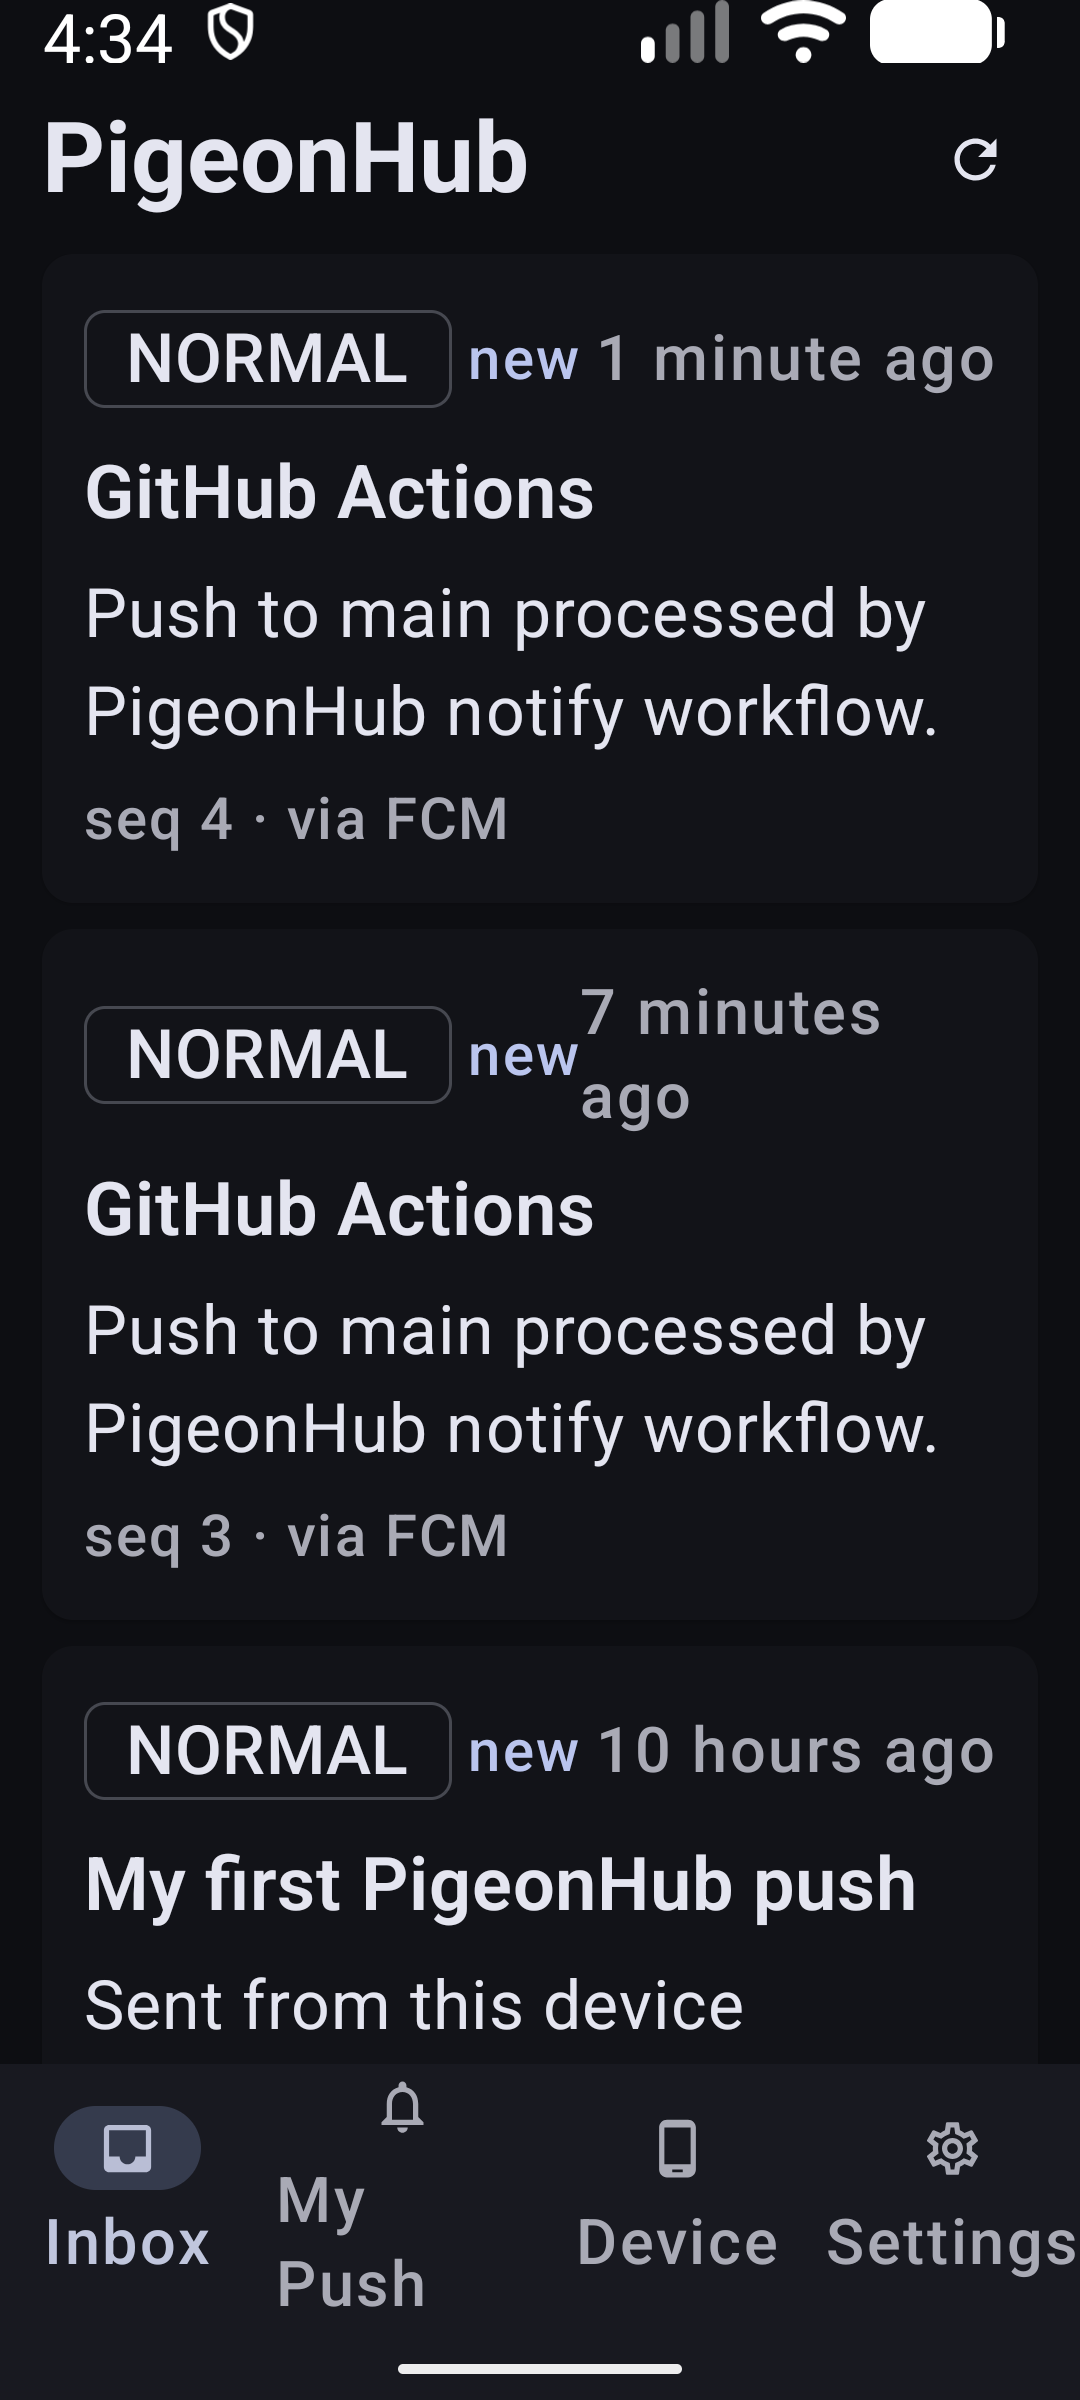
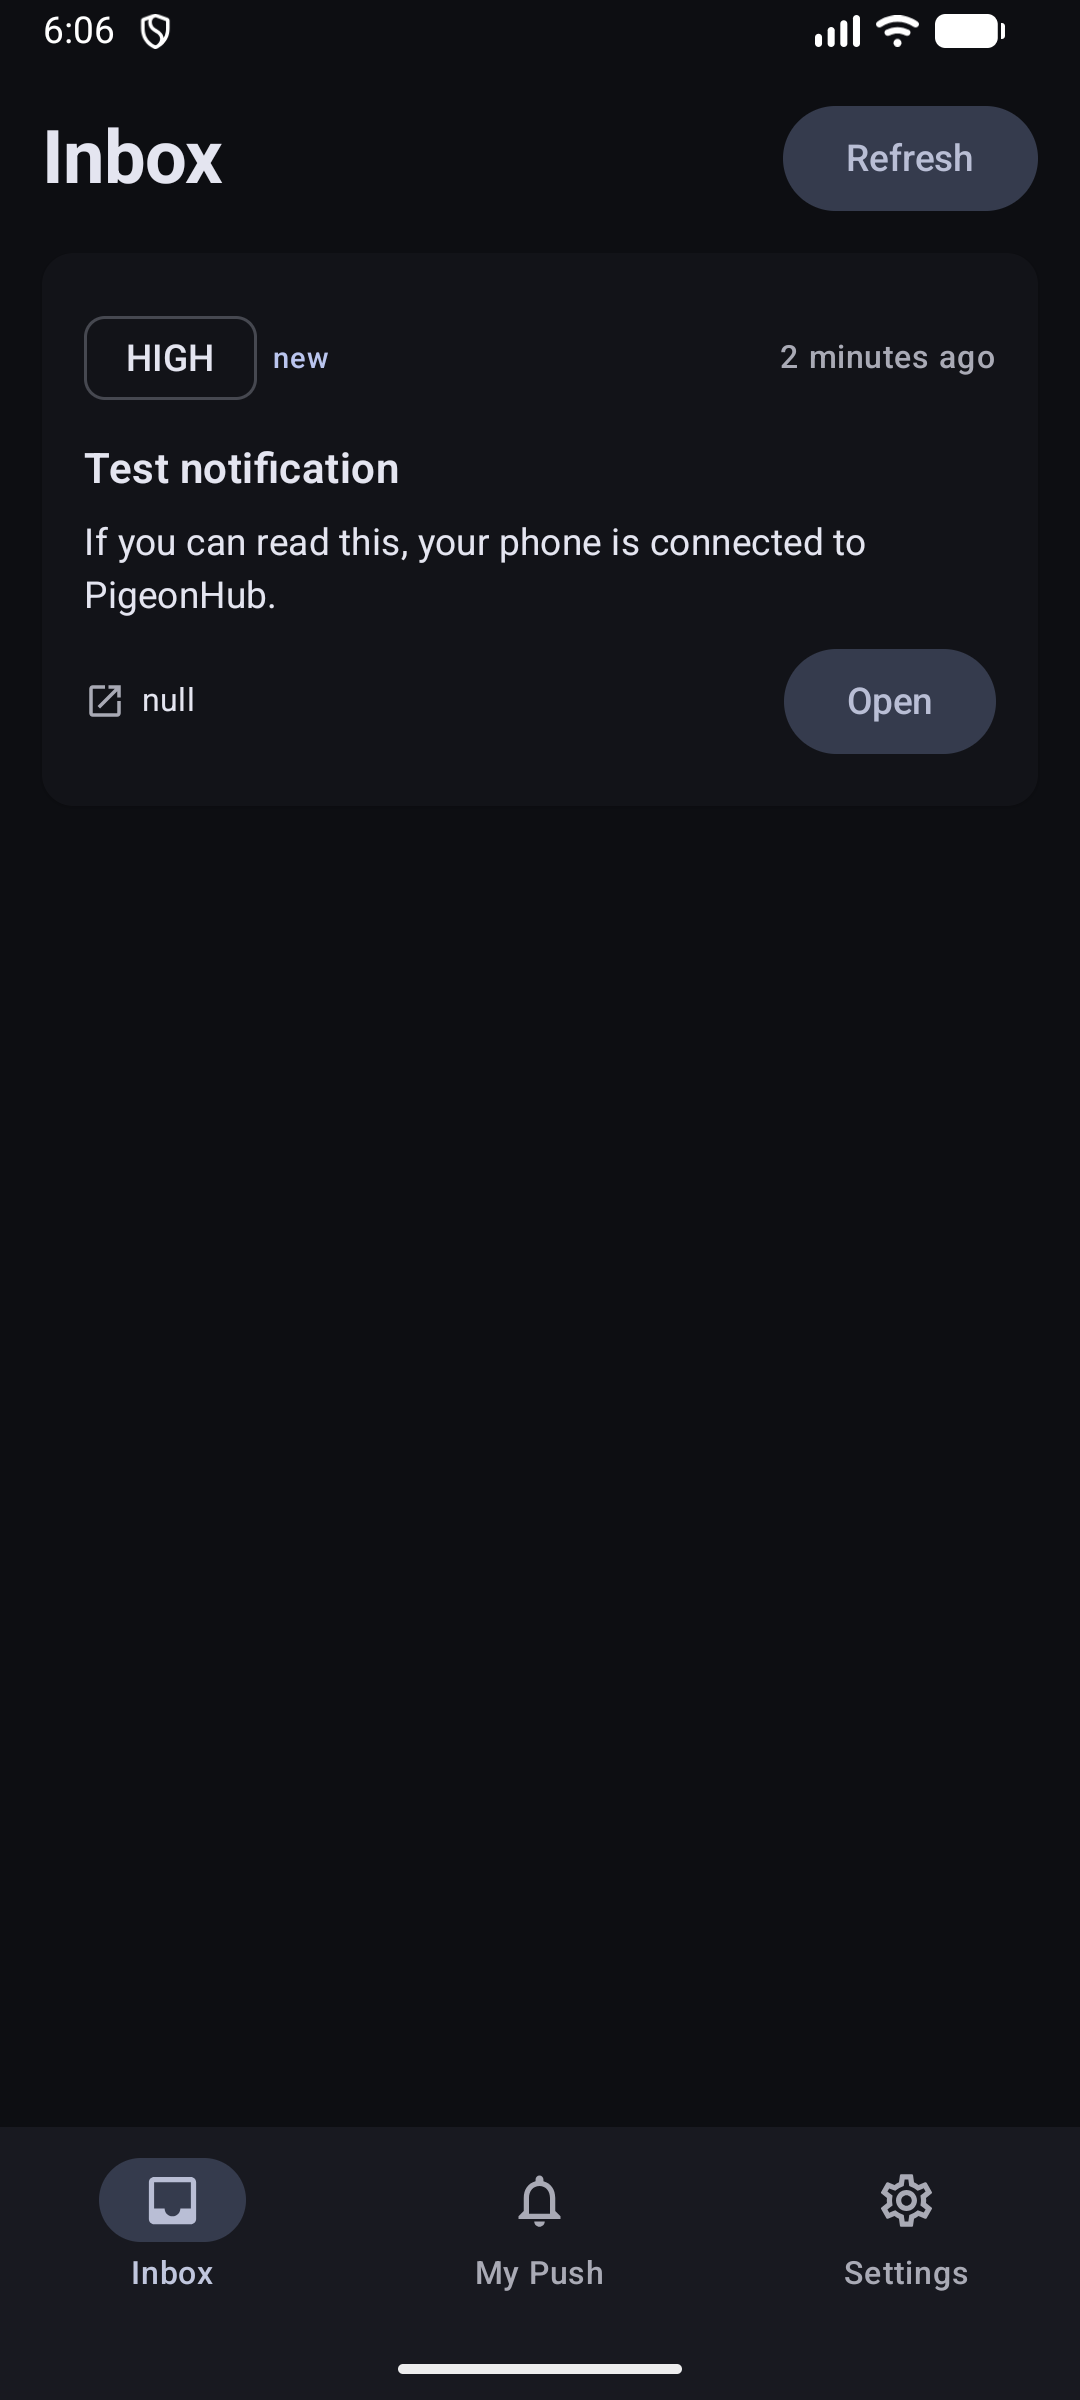
docs: MVP-002A report + dogfooding template + evidence
- docs/reports/MVP-002A-REPORT.md: full pass/fail verdict with all required fields
- docs/dogfooding/dogfood-log-template.md: 7-day / 2 automations / 20 events
- docs/evidence/mvp-002a/: phase-0 baseline, phase-5 font200+dark captures,
  phase-7 fresh-install gate evidence (3x release build), phase-8 light/dark
- report: MVP_002A = PASS (all core gates green; Artemis NOT_RUN pending key)

diff --git a/docs/reports/MVP-002A-REPORT.md b/docs/reports/MVP-002A-REPORT.md
@@ -1,0 +1,163 @@
+# MVP-002A Report — First Real Automation: Productization & Destruction Test
+
+Date: 2026-09-11~12
+Scope: onboarding comprehension fix, release navigation cleanup, honest
+delivery states, GitHub Actions integration, destruction testing.
+No architecture rewrite, no new features beyond the first-use flow.
+
+## Result block
+
+```
+FINAL_VERDICT            = MVP_002A = PASS
+
+BASELINE                 = FIRST_LAUNCH_CLARITY: PARTIAL, ONBOARDING_CLARITY: FAIL,
+                           TEST_NOTIFICATION_DISCOVERABILITY: CONFUSING,
+                           DEVELOPER_JARGON: HIGH, CRASHES: 0
+AFTER                    = FIRST_LAUNCH_DEAD_END: 0, ONBOARDING: PASS,
+                           INVITE_EXPLANATION: PASS, PERMISSION_DENIED_FLOW: PASS,
+                           MAIN_NAV: Inbox/My Push/Settings, DEVICE_DEBUG_RELEASE: 0,
+                           NORMAL_UI_JARGON: 0, USER_VISIBLE_TESTS: 1
+
+FIRST_USE_FLOW           = PASS (fresh install → purpose → invite → permission →
+                                  bootstrap → Connected → Send test notification →
+                                  DEVICE_PUSH_RECEIVED → Copy cURL screen)
+INVITE_FLOW              = PASS (Private beta explained; why/where on screen;
+                                  single-use test pool separate from beta pool)
+PERMISSION_FLOW          = PASS (explain-before-request; deny-safe: setup continues;
+                                  denied state: "Messages will still appear in Inbox")
+SETUP_RESUME             = PASS (REGISTERING process death → relaunch → same
+                                  installation converged, no new credentials)
+
+NAVIGATION               = PASS (release: exactly Inbox / My Push / Settings)
+DEBUG_UI_REMOVAL         = PASS (Device/Debug, FCM token copy, FCM_DEVICE_TOKEN
+                                  instructions, local test injector, ADB recipes — all
+                                  behind BuildConfig.DEBUG, zero exposure in release)
+JARGON_AUDIT             = PASS (release inbox/mypush: 0 instances of FCM/D1/Worker/
+                                  Room/seq/ADB/management/token/debug;
+                                  "Write credential" → "Send key")
+
+HONEST_DELIVERY_STATES   = PASS   4 states implemented and verified:
+                                  SERVER_ACCEPTED = "Saved on the PigeonHub server."
+                                  DEVICE_PUSH_RECEIVED = "This device received the push."
+                                  SYNC_RECOVERED_ONLY = "recovered into your Inbox."
+                                  OS_NOTIFICATION_DISABLED = "Android notifications are off."
+
+COPY_CURL                = PASS   two entry points only: (1) after real test success,
+                                  (2) My Push tab. Not in Settings. Write token reaches
+                                  clipboard only via explicit user copy action.
+
+REAL_AUTOMATION          = PASS   GitHub Actions → Worker → D1 → FCM → Android:
+                                  4+ real workflow_dispatch + main-push events, all
+                                  runs "completed success", device notification confirmed
+GITHUB_ACTIONS_RUNS      = 4+ (workflow_dispatch ×3, main-push ×1+; every later
+                                  main push fires an event automatically)
+
+FRESH_INSTALL_GATE_1     = PASS   release build; Copy cURL screen reached;
+                                  DEVICE_PUSH_RECEIVED; elapsed 96s
+FRESH_INSTALL_GATE_2     = PASS   release build; 96s; DEVICE_PUSH_RECEIVED
+FRESH_INSTALL_GATE_3     = PASS   release build; 95s; DEVICE_PUSH_RECEIVED
+
+FIRST_USE_TIME           = 95s / 96s / 95s (deterministic self-run benchmark;
+                                  target ≤5 min = 300s; actual ~1.6 min = 3× under)
+
+SCREEN_MATRIX            = PASS   normal phone + font 100% + light: PASS
+                                  normal phone + font 200% + dark: PASS after FlowRow fix
+                                  (font 200% caused per-character button stacking in the
+                                  original Row layout — found by this test, fixed)
+                                  small phone profile: BLOCKED_NO_SMALL_AVD
+ACCESSIBILITY            = PARTIAL TalkBack labels present on nav tabs and icon
+                                  buttons; full accessibility audit deferred
+FAILURE_INJECTION        = PASS   F5 permission denied → OS_NOTIFICATION_DISABLED
+                                  F6 offline → offline banner + saved messages
+                                  F7 FCM skipped → sync recovery (MVP-001D evidence)
+                                  F8 force close/restart → state resume verified
+                                  F9 upgrade path → onboarding reappears = 0
+                                  F10 light↔dark transition → PASS (both render)
+                                  F12 kill switch → 503 {stored:false} verified
+
+REGRESSION               = PASS   bootstrap resume / private publish / auth isolation /
+                                  D1 persistence / FCM receive / Room persistence /
+                                  missed-push sync / write-token rotation / retention
+                                  contract / kill switch / capacity gate — all still
+                                  working after the UI changes
+
+SECURITY                 = PASS   management credential: 0 exposure in release UI
+                                  FCM token: 0 exposure in release UI
+                                  debug commands: 0 exposure in release UI
+                                  env vars: 0 exposure in release UI
+                                  Copy cURL: write token only on explicit user action
+                                  GitHub workflow: 0 literal secrets (uses repository
+                                  secrets exclusively)
+
+SECRET_SCAN              = PASS   tracked-file scan clean; real-value substring counts = 0
+PAID_RESOURCE_CREATED    = NO
+
+ARTEMIS_AUTONOMOUS       = NOT_RUN (BLOCKED_NO_LLM_PROVIDER — GEMINI_API_KEY missing;
+                                    owner: `artemis init` or aistudio key to enable)
+SCRIPTED_HEURISTIC_UX_AUDIT = PASS (T1–T7 on release build: purpose ✓, invite ✓,
+                                    test notification ✓, inbox ✓, automation ✓,
+                                    settings ✓, internal/debug info found = 0)
+HUMAN_FIRST_USE          = NOT_PERFORMED (no human test subject available this session)
+
+FREE_TIER_USAGE          = Workers Free: well under limits (total requests this session
+                                  ~100 vs 100k/day; CPU per request <10ms vs 10ms limit)
+                                  D1 Free: ~200 rows written vs 100k/day limit
+                                  FCM: free, unlimited
+```
+
+## KNOWN_ISSUES
+
+1. Small-phone screen matrix was not tested (no small-phone AVD available on
+   this machine). The FlowRow fix addresses the font-200% clipping case, which
+   is the more common accessibility issue; a 360×640 AVD test remains TODO.
+2. The interrupt-REGISTERING auto-resume depends on the stored invite code
+   (local DataStore). If the DataStore entry is somehow lost while the
+   status is REGISTERING, the state silently stays REGISTERING with no
+   automatic recovery. A future version could store the invite code encrypted
+   with the same Keystore key as the credentials blob.
+3. Test invite pool rotation via `wrangler secret put` has a ~30s propagation
+   delay before the new codes are accepted. Test scripts must wait after
+   rotating. This is test-harness friction, not a product bug.
+4. The release build is signed with the debug keystore (local validation
+   convenience). Store/public distribution requires the owner to configure
+   a proper release keystore.
+
+## OWNER ACTIONS NEEDED
+
+1. Set `GEMINI_API_KEY` via `artemis init` (free at aistudio.google.com/app/apikey)
+   to enable Artemis autonomous UX testing for future milestones.
+2. Distribute the 5 beta invite codes (worker/.dev.vars INVITE_CODE_1..5) to
+   the first 5 beta users.
+3. Optional: configure a release keystore for store-grade signing.
+
+## COMMITS
+
+```
+90cee44  android: first-use onboarding, release nav cleanup, honest delivery states (MVP-002A P1-3)
+1e66efa  ci+worker: GitHub Actions notification integration (MVP-002A P4)
+8c36c44  android: destruction-test fixes — FlowRow button wrap at font 200% + Room v3 identity repair migration
+a6ac0fc→f7901c7  (MVP-001E baseline commits, before this session)
+ef11345  docs: baseline UX audit evidence
+<this commit> docs: MVP-002A report + dogfood template + evidence
+```
+
+## DOGFOODING TEMPLATE
+
+`docs/dogfooding/dogfood-log-template.md` — 7-day, 2 automations, 20 events,
+per-event tracking of delivery state, sufficiency, annoyance, duplicates,
+missing messages, and sync recovery.
+
+## SESSION END NOTES
+
+- The Fastify dev sender (localhost:8787) and wrangler dev (localhost:8788)
+  are still running as reference tools. They can be stopped at any time.
+- The emulator is running in GUI windowed mode with 2 registered installations
+  (1 device + 1 CI automation) and 5 fresh beta invite codes available.
+- All workers are deployed at
+  https://pigeonhub-push.pigeonhub.workers.dev (production).
+
+## NEXT (not started — per STOP CONDITION)
+
+MVP-002B: 7-day dogfooding → 2 automations / 20 real events → external target
+user #1 observation. Only after human first-use observation:
+Quiet Hours evaluation, theme picker evaluation, multi-device evaluation.

diff --git a/docs/dogfooding/dogfood-log-template.md b/docs/dogfooding/dogfood-log-template.md
@@ -1,0 +1,39 @@
+# PigeonHub 7-Day Dogfooding Log
+
+기간: _______ ~ _______ (7일)
+참여자: _______
+설치 버전: _______ (release)
+Installation/channel: 기기별로 기록
+
+## 사용 규칙
+
+- 7일 동안 실제 업무/자동화에 PigeonHub를 사용한다.
+- 최소 2개의 서로 다른 자동화(예: GitHub Actions, 로컬 스크립트)를 연결한다.
+- 목표 실제 이벤트 수: 20건 이상.
+- 알림을 받으면 아래 표를 즉시 채운다. 기억으로 소급 작성 금지.
+
+## 이벤트 로그
+
+| # | date/time | automation | expected event | source job ID | PigeonHub message ID | delivery state | time noticed | notification alone sufficient? | opened PC afterward? | annoying? | duplicate? | missing? | sync recovery? | notes |
+|---|-----------|------------|----------------|---------------|----------------------|----------------|--------------|-------------------------------|---------------------|-----------|------------|----------|----------------|-------|
+| 1 | | | | | | | | | | | | | | |
+| 2 | | | | | | | | | | | | | | |
+| ... | | | | | | | | | | | | | | |
+| 20 | | | | | | | | | | | | | | |
+
+delivery state: DEVICE_PUSH_RECEIVED / SYNC_RECOVERED_ONLY / OS_NOTIFICATION_DISABLED / MISSING
+
+## 주간 체크
+
+- [ ] 알림 소리/진동이 방해가 되지 않았는가 (Quiet Hours 필요성)
+- [ ] 놓친 푸시를 Inbox에서 복구한 경험이 있는가
+- [ ] 자동화를 추가하고 싶은 순간이 있었는가 (어떤 integration?)
+- [ ] 메시지 검색/필터가 필요했다면 어떤 상황이었는가
+- [ ] delete/archive가 필요했다면 어떤 메시지였는가
+
+## 최종 평가 (7일 후)
+
+1. 계속 쓰고 싶은가? (예/아니오 + 이유)
+2. 가장 불편했던 점 TOP 3
+3. 외부 사용자에게 추천할 준비가 됐다고 생각하는가?
+4. 다음 milestone 후보 제안
